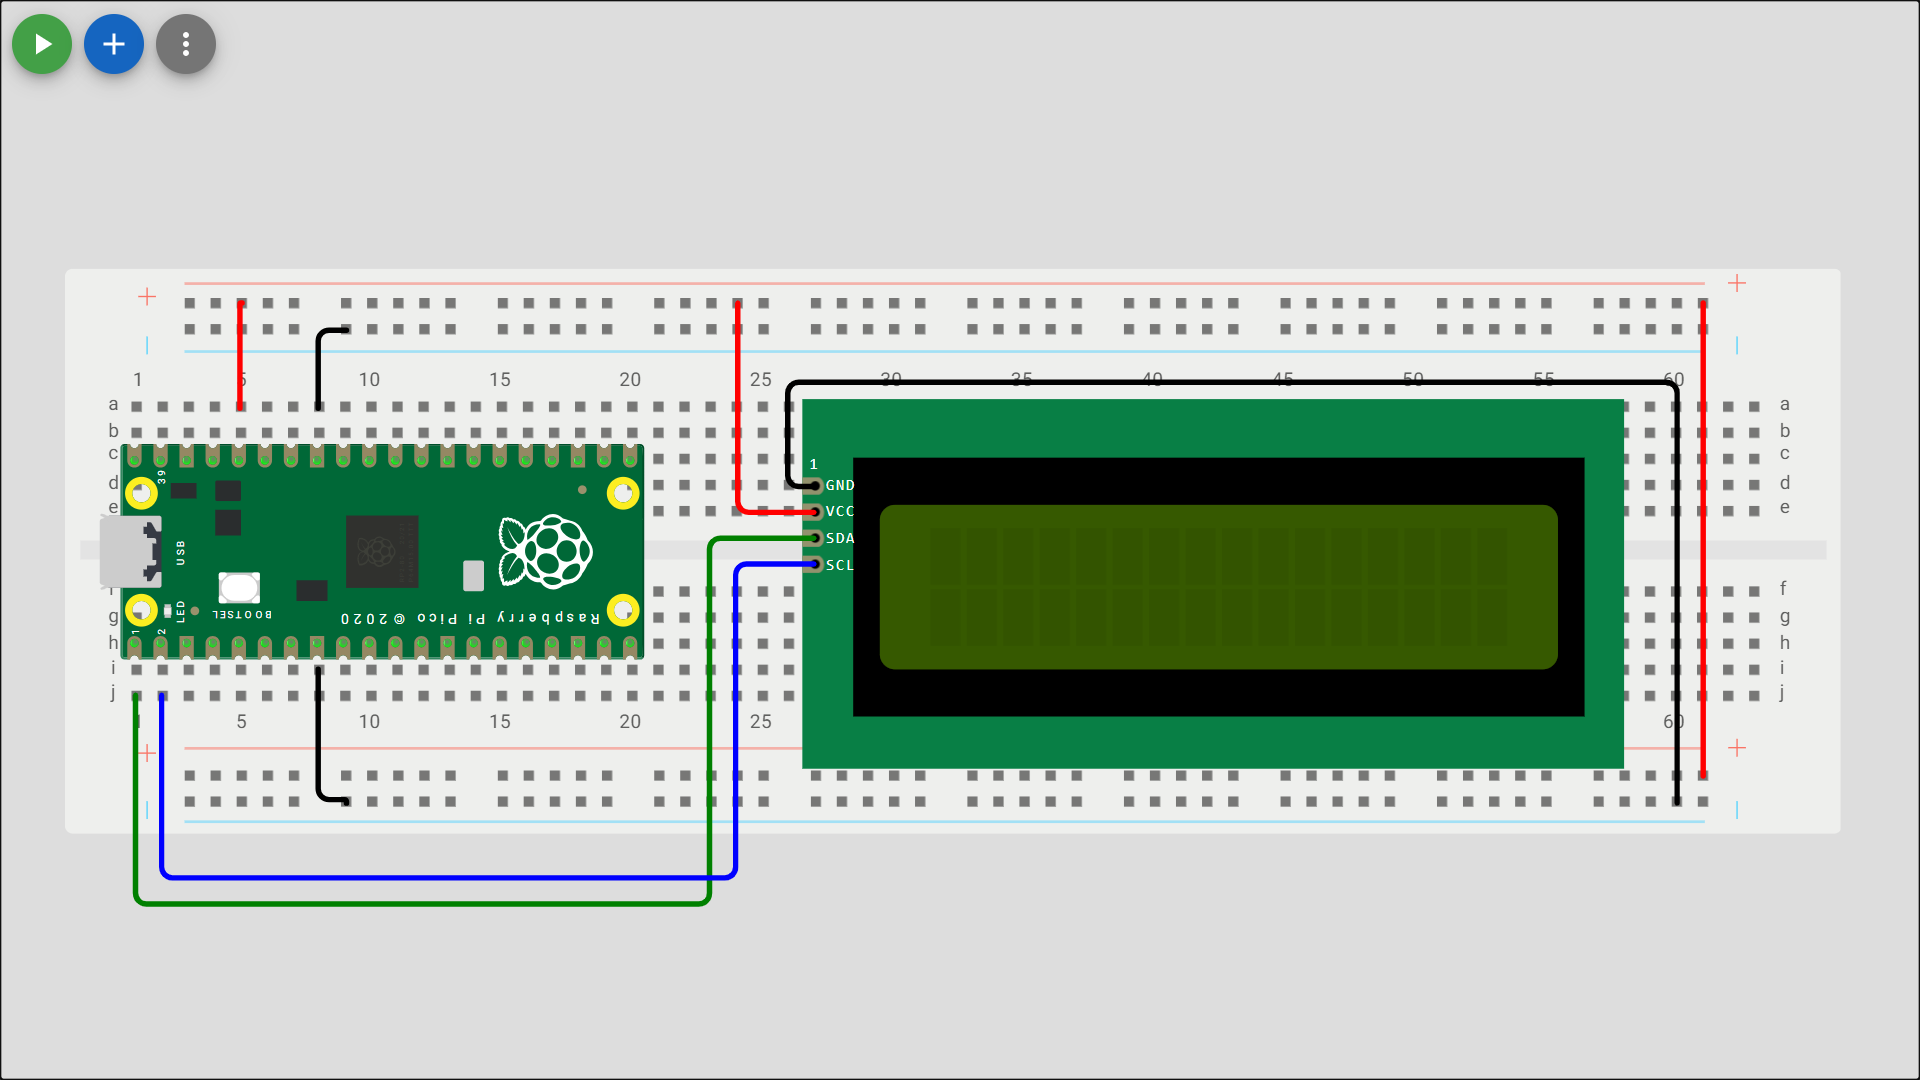
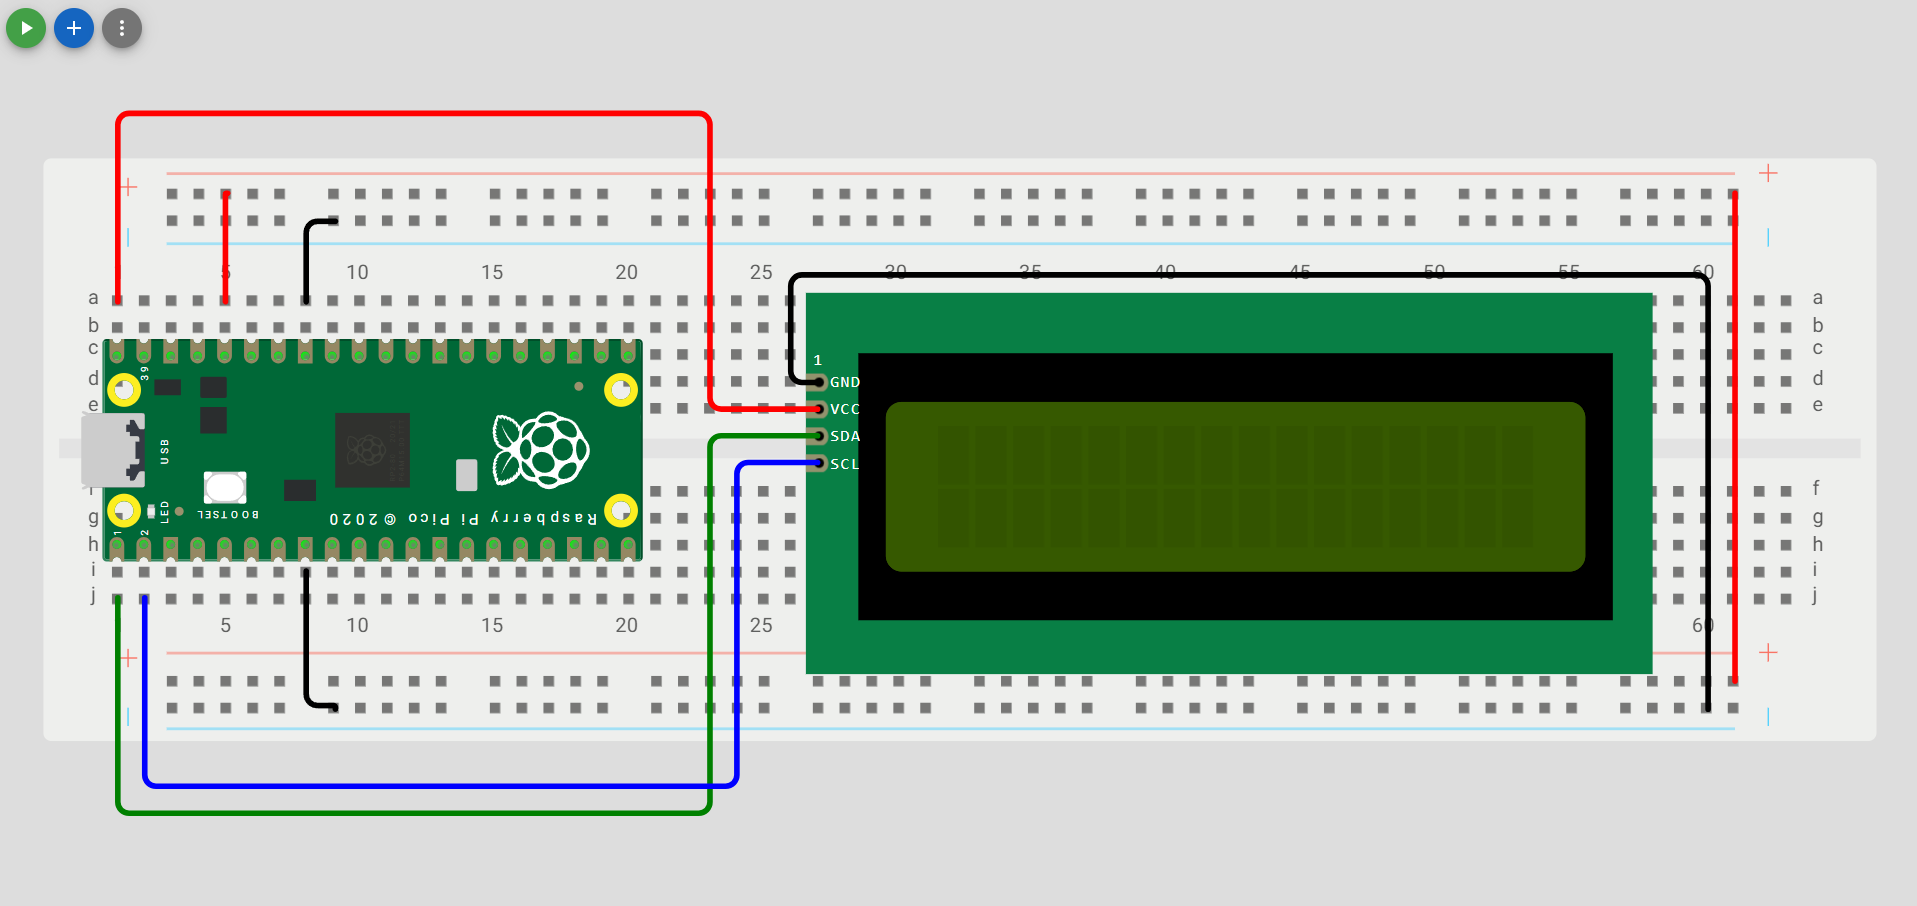
fix: update I2C module documentation and improve clarity

diff --git a/introduction_projects/7.I2C_module.md b/introduction_projects/7.I2C_module.md
@@ -7,12 +7,12 @@ Don't forget to check the [Pi Pico Diagram](../Raspberry-Pi-Pico-pinout-diagram.
 
 ## Display text on a I2C 16x2 LCD display
 
-| LCD Display         | Pico pin        |
-| ------------------- | --------------- |
-| Ground (-, GND, G)  | Ground (GND)    |
-| SDA                 | GP0 (I2C1 SDA)  |
-| SCL                 | GP1 (I2C1 SCL)  |
-| Power (+, VCC, PWR) | 3.3V (3V3(OUT)) |
+| LCD Display         | Pico pin       |
+| ------------------- | -------------- |
+| Ground (-, GND, G)  | Ground (GND)   |
+| SDA                 | GP0 (I2C1 SDA) |
+| SCL                 | GP1 (I2C1 SCL) |
+| Power (+, VCC, PWR) | VBUS (5V)      |
 
 > [!Note]
 > Students can build using physical components or prototype using this [Template Wokwi Project](https://wokwi.com/projects/433242006092880897) (don't forget to upload the [I2C library](..\project\lib\pico_i2c_lcd.py) and [LCP library](..\project\lib\lcd_api.py)).
@@ -20,7 +20,7 @@ Don't forget to check the [Pi Pico Diagram](../Raspberry-Pi-Pico-pinout-diagram.
 ![](images/I2C_module.png)
 
 > [!Note]
-> Multiple I2C Modules can be connected to the same SDA/SCL pins but there will be conflicts if multiple modules have the same address.
+> Multiple I2C Modules can be connected to the same SDA/SCL pins but there will be conflicts if multiple modules have the same addressing.
 
 > [!Note]
 > These are generic I2C LCD modules — the small contrast potentiometer on the back of the I2C backpack may need to be adjusted (using a small screwdriver) before any text becomes clearly visible on the display.
@@ -50,11 +50,7 @@ while True:
     # putstr method allows printing of the text in the LCD screen
     # for other methods that can be used, check lcd_api module
     lcd.putstr("Hello world!")
-    sleep(2)                # text shown with backlight ON for 2 secs
-    lcd.backlight_off()     # turn the backlight OFF (text remains in LCD memory)
-    sleep(2)                # text stays for 2 secs while backlight is off
-    lcd.backlight_on()      # turn the backlight back ON
-    sleep(2)                # text shown with backlight ON for another 2 secs
+    sleep(2)                # text shown for 2 secs
     lcd.clear()
     sleep(1)                # clear the text for 1 sec then print the text again
 ```
